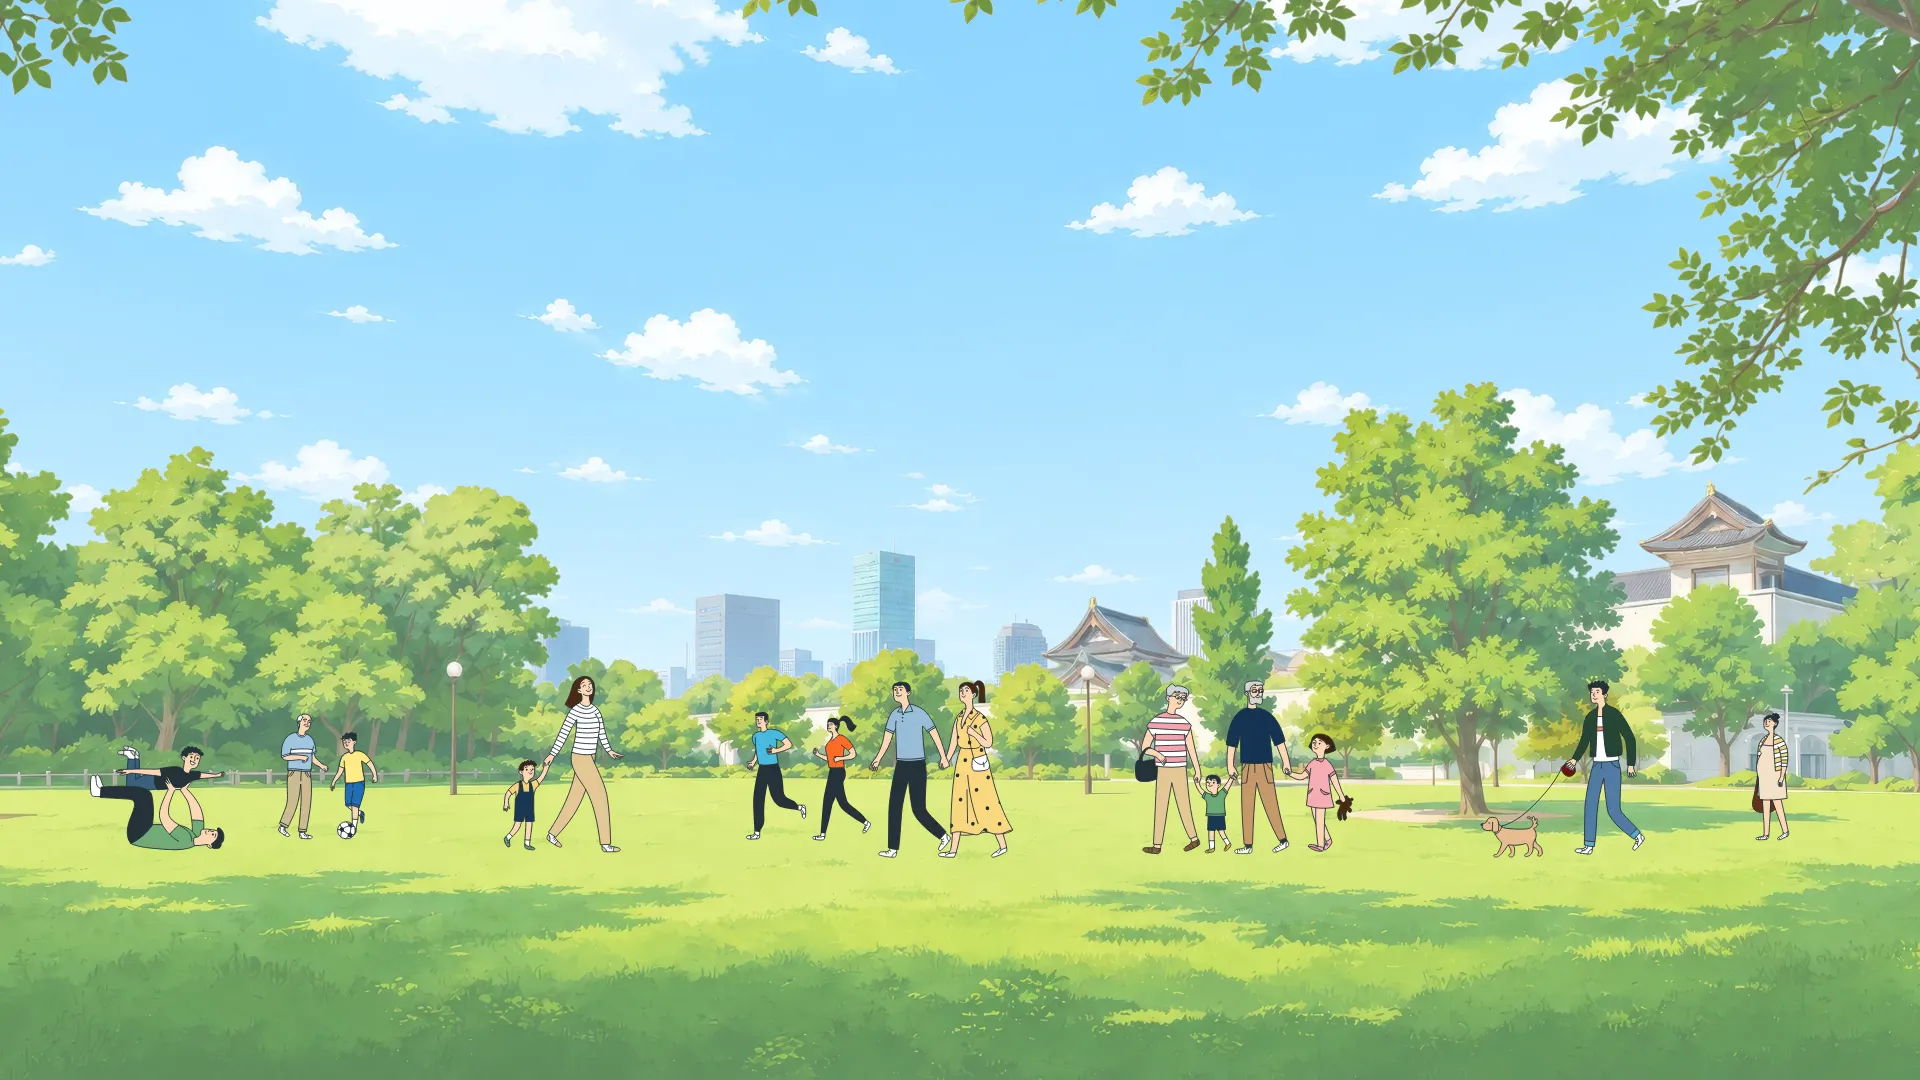
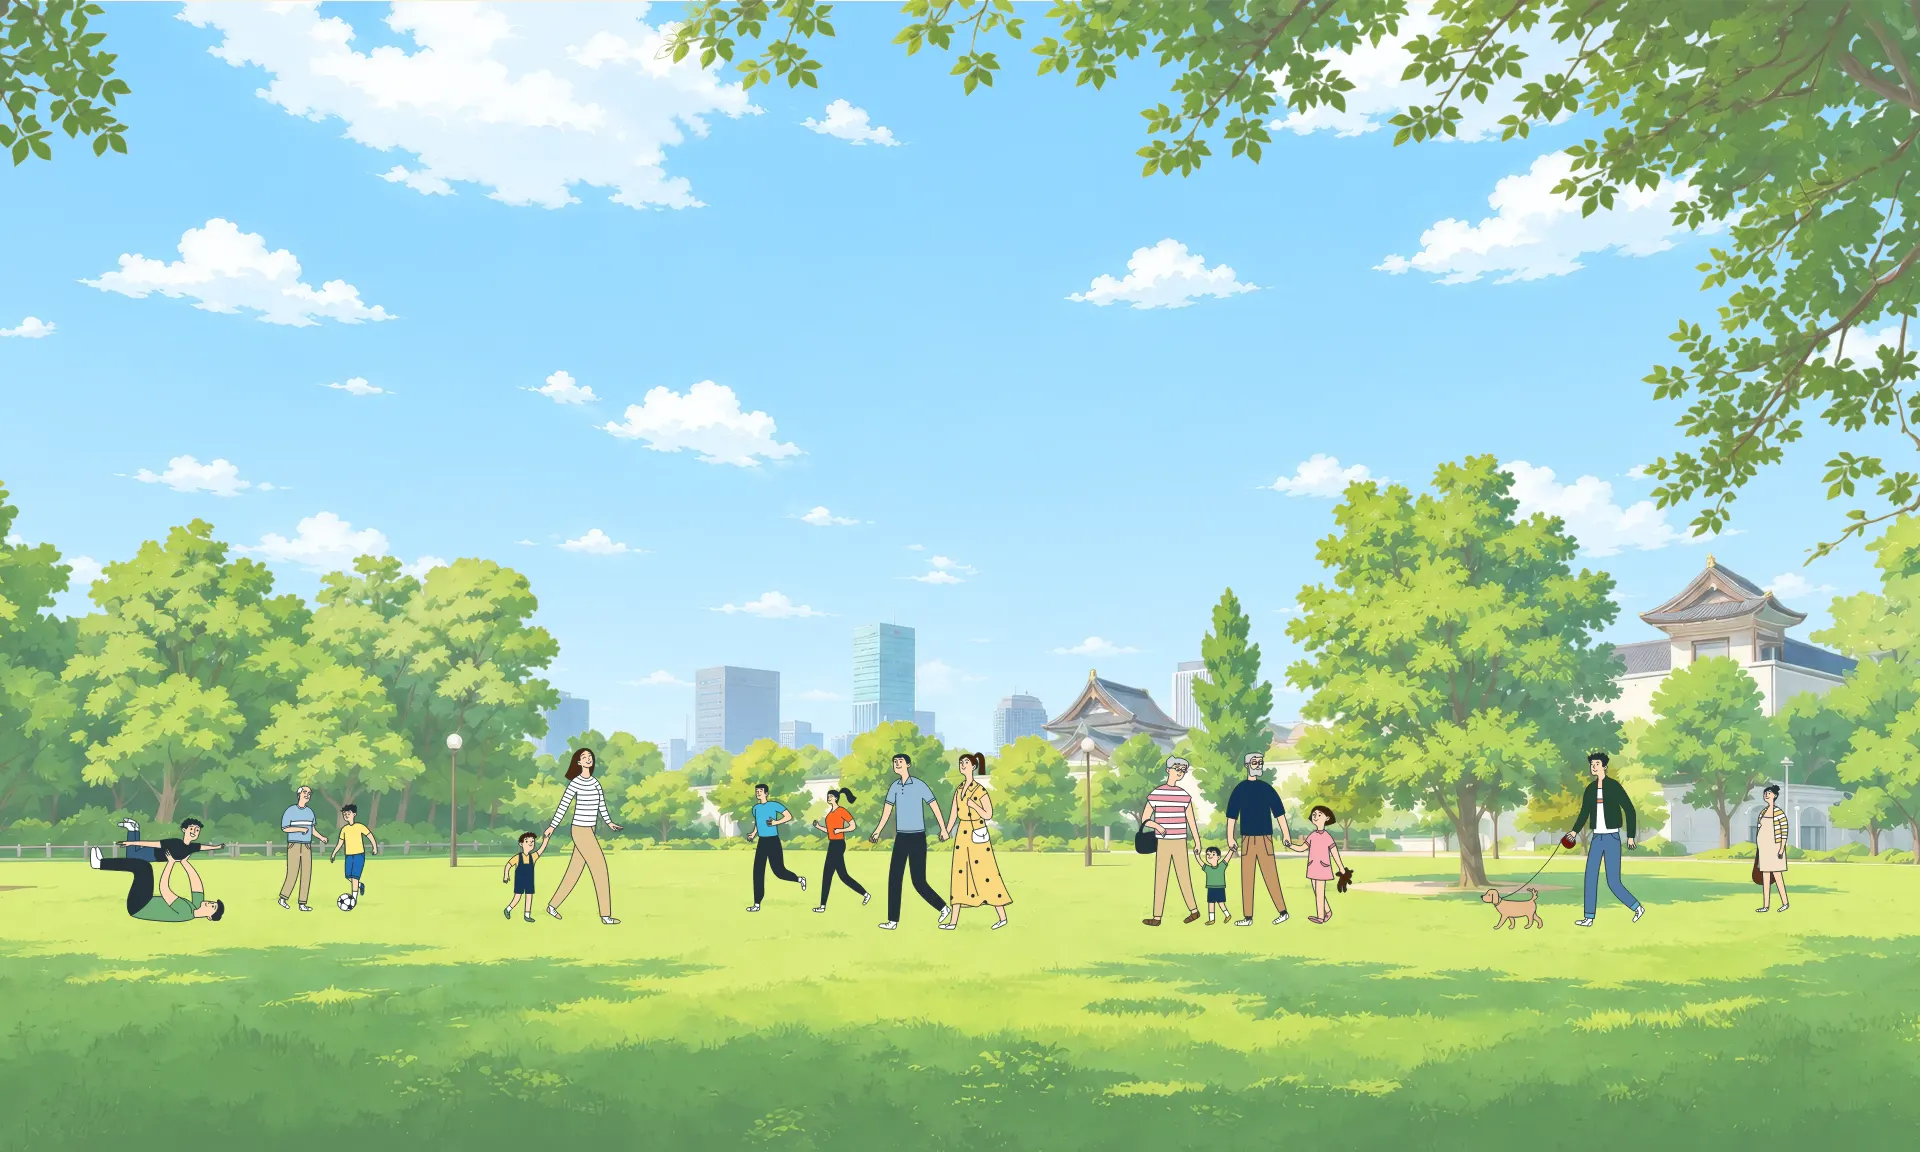
feat: ログイン画面の枠をもう少し透過、背景を素材の上端まで使い下寄りに
Claude-Session: https://claude.ai/code/session_019sjqHiZBWqrHD7F6MywihV

diff --git a/src/app/login/AuthCard.tsx b/src/app/login/AuthCard.tsx
@@ -4,13 +4,14 @@ import { currentStage, STAGE_LABEL } from '@/lib/stage';
 /**
  * ログイン・パスワード設定画面の枠。
  * 背景はサイトのキービジュアル (kulapita/public/hero-parallax の各レイヤーを 1 枚に重ねた画像)。
+ * 素材の一番上の空まで使い、上端に合わせて表示する (人物が画面の下寄りになる)。
  */
 export function AuthCard({ title, children }: { title: string; children: React.ReactNode }) {
   const stage = currentStage();
   return (
-    <main className="relative flex min-h-screen items-center justify-center bg-[#fef1dc] bg-[url('/login-bg.webp')] bg-cover bg-center px-4 py-10">
+    <main className="relative flex min-h-screen items-center justify-center bg-[#fef1dc] bg-[url('/login-bg.webp')] bg-cover bg-top px-4 py-10">
       {/* 背景の絵が少し透けるよう、白は少し透過させる */}
-      <div className="w-full max-w-lg rounded-xl bg-white/85 p-8 shadow-xl ring-1 ring-black/5 backdrop-blur-sm">
+      <div className="w-full max-w-lg rounded-xl bg-white/75 p-8 shadow-xl ring-1 ring-black/5 backdrop-blur-sm">
         <div className="mb-5 flex items-start justify-between gap-3">
           <Logo width={180} />
           {stage !== 'prod' && (
